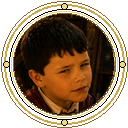
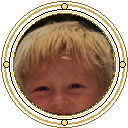
Remplace les portraits-médaillons d'Olivier et Nathalie
Nouvelles photos pour les deux héros : crop visage 128x128 (Lanczos) pour
les -original.png, anneau de médaillon existant (par genre) transplanté
pour les .png.

https://claude.ai/code/session_01NXprxS9PeJaAsvYUXYMd3e

diff --git a/.claude/plans/player-medallion-images.md b/.claude/plans/player-medallion-images.md
@@ -1,0 +1,18 @@
+# Remplacement des médaillons Olivier & Nathalie
+
+Remplacer les portraits-médaillons des héros `olivier` et `nathalie` par les
+deux nouvelles photos fournies.
+
+## Mapping image → héros
+- `nathalie` (Poufsouffle, fille) ← image Poufsouffle souriante (e4cccc2c)
+- `olivier`  (Serdaigle, garçon)  ← image garçon cheveux courts (9efdc27e)
+
+## Étapes
+1. Crop visage carré + resize Lanczos 128×128 → `img/<key>-original.png` → verif: aperçu visage cadré.
+2. Transplant de l'anneau existant (r≥50 depuis l'actuel `img/<key>.png`, anneau déjà au bon genre) sur la nouvelle photo masquée ronde → `img/<key>.png` → verif: aperçu médaillon.
+3. `node tests/smoke.js` (aucune clé nouvelle) → verif: vert.
+4. Pas de changement JS/CSS (mêmes chemins imgSrc) → bump cache PWA NON requis (images non bumpées par ?v).
+
+## Notes
+- Les chemins `img/olivier.png` / `img/nathalie.png` sont inchangés (déjà dans CHARACTERS) → aucun câblage à toucher.
+- Sprites plein corps `img/players/*` non concernés (le user parle des médaillons).
